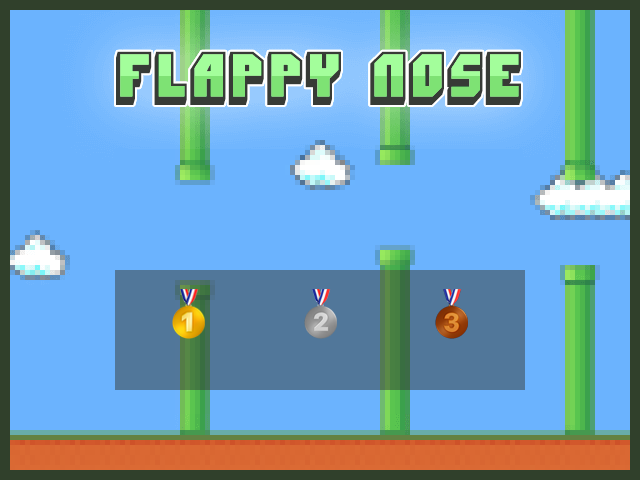
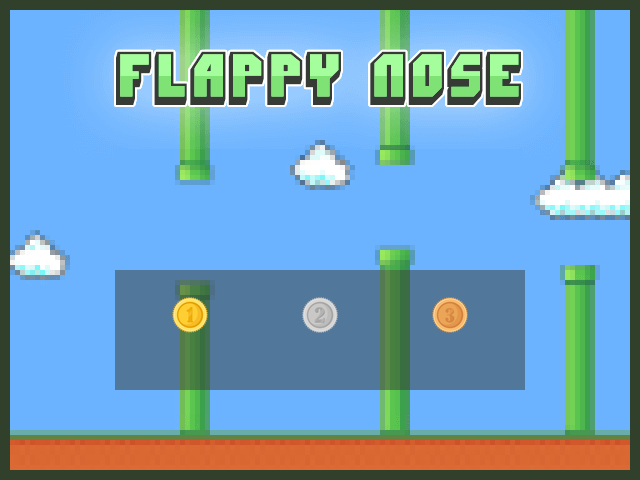
Final Mapa infinito

Changed region(s): [[0.6562, 0.5938, 0.75, 0.7188], [0.4688, 0.5938, 0.5312, 0.7188], [0.25, 0.5938, 0.3438, 0.7188]]

diff --git a/jogo.js b/jogo.js
@@ -15,8 +15,8 @@ let crashou = false;
 /* Pontos iniciais de cada nível */
 let pontos = { estg: 0, ese: 0, esa: 0, esce: 0, esdl: 0, ess: 0};
 let recorde = 0;
-let recordeRanking = [];
-let recordeRanking3 = [];
+let recordeRanking = [0, 0, 0];
+let recordeRanking3 = [0, 0, 0];
 let pontosTotal = 0;
 let skinsUnlocked = 0;
 
@@ -427,20 +427,14 @@ function telaRecorde() {
 
 	recordeRanking3 = recordeRanking.slice(-3);
 
-	for(i = 0; i < 3; i++){
-		if(recordeRanking3[i] == undefined){
-			recordeRanking3[i] = 0;
-		}
-	}
-
 	imageMode(CENTER);
 	image(jogarModoRecorde, 320, 210);
 	textAlign(CENTER);
 	fill(255);
 	textSize(32);
-	text (`${recordeRanking3[2]}`, 190, 370);
-	text (`${recordeRanking3[1]}`, 320, 370);
-	text (`${recordeRanking3[0]}`, 450, 370);
+	text (`${recordeRanking3[2]}`, 190, 365);
+	text (`${recordeRanking3[1]}`, 320, 365);
+	text (`${recordeRanking3[0]}`, 450, 365);
 	
 
 	if ((mouseX >= 115 && mouseX <= 525 && mouseY >= 150 && mouseY <= 270) && screenRecorde) {
